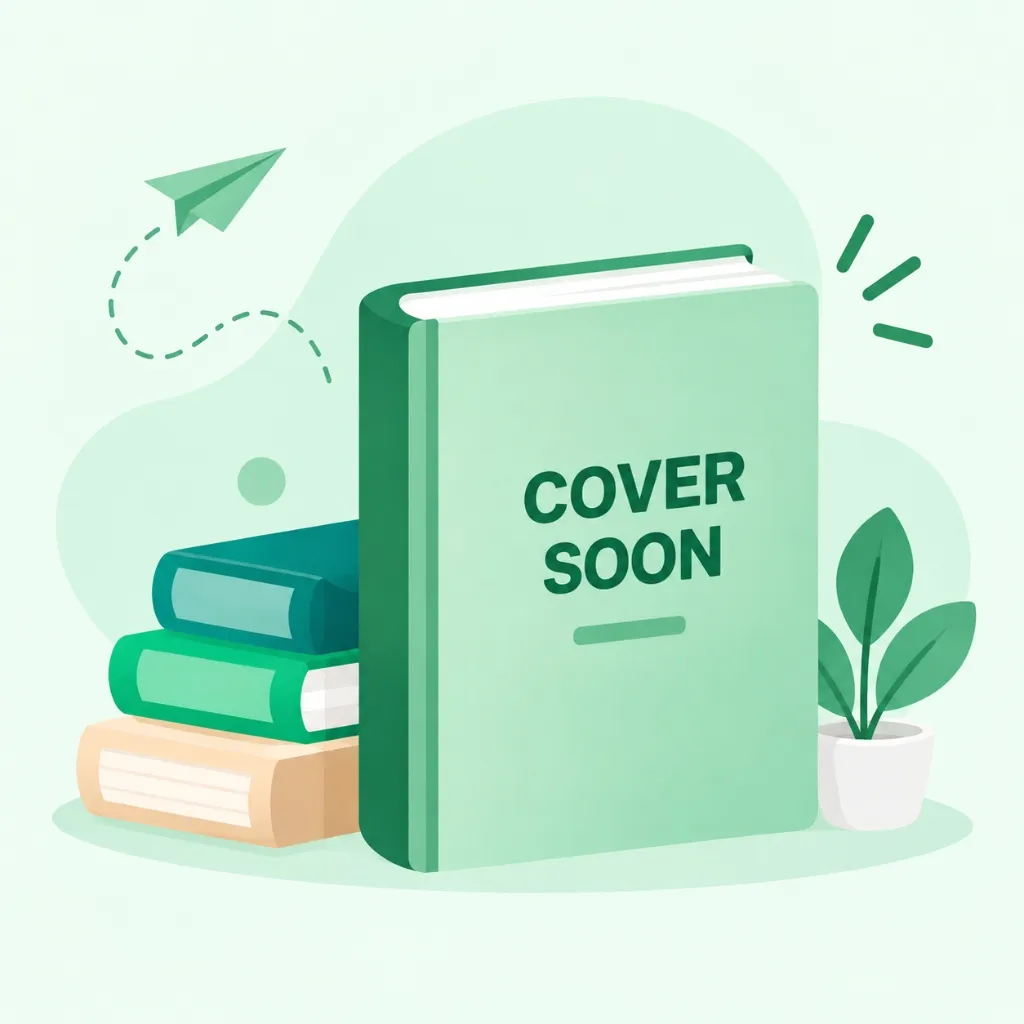
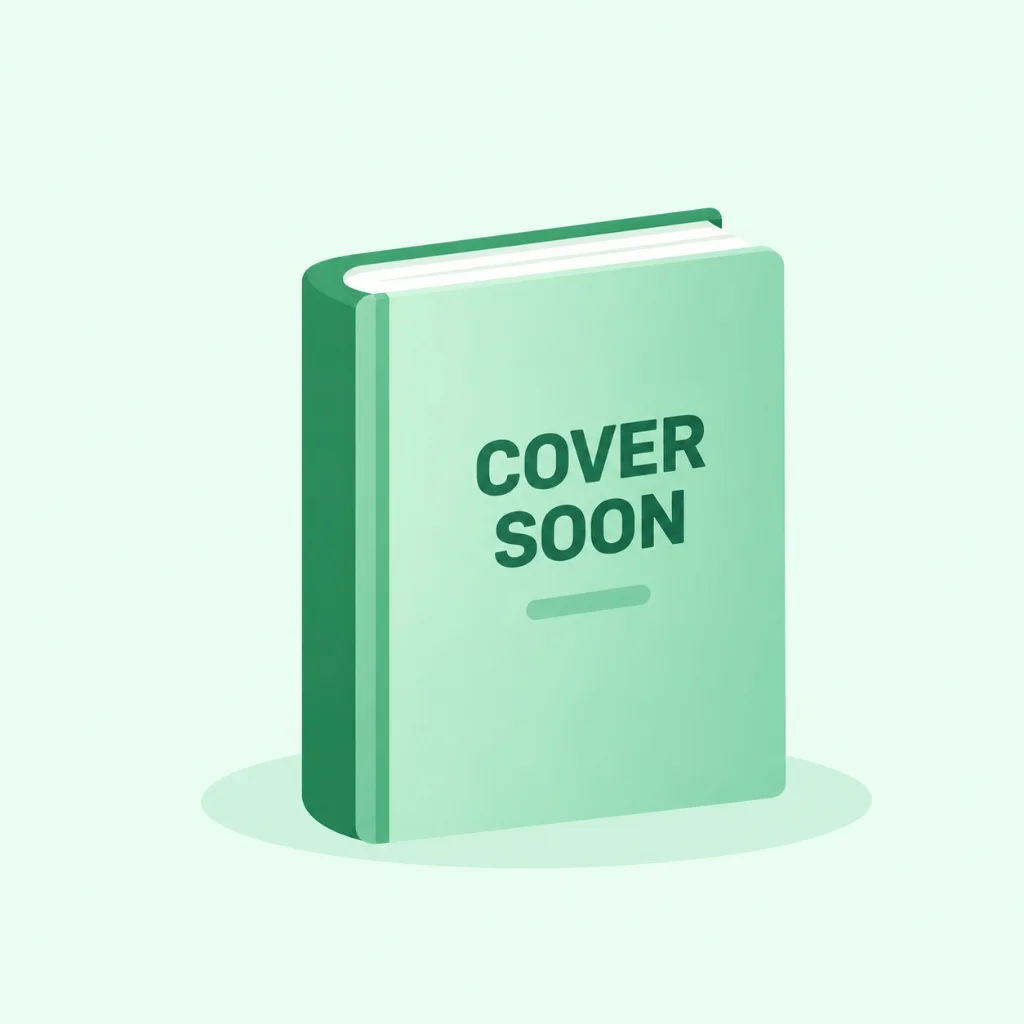
memperbaiki desain

diff --git a/syntax.html b/syntax.html
@@ -688,13 +688,13 @@
             <form id="modal-pencarian-spesifik-form" action="{{ route('search') }}" method="GET" class="p-5 md:p-8 space-y-4 md:space-y-6 overflow-y-auto flex-grow">
                 <!-- Section 1: Detail Bibliografi -->
                 <div class="space-y-4">
-                    <h4 class="text-xs font-bold uppercase tracking-wider text-slate-400 flex items-center gap-1.5">
+                    <h4 class="text-xs font-bold uppercase tracking-wider text-black flex items-center gap-1.5">
                         <i class="ph ph-info text-sm text-[#106c38]"></i> {{ __('Detail Bibliografi') }}
                     </h4>
                     
                     <!-- Judul -->
                     <div class="flex flex-col gap-1.5">
-                        <label class="text-xs font-semibold text-slate-500 pl-1">{{ __('Judul') }}</label>
+                        <label class="text-xs font-bold text-black pl-1">{{ __('Judul') }}</label>
                         <div class="relative flex items-center">
                             <div class="absolute left-4 text-slate-400">
                                 <i class="ph ph-book-open text-xl"></i>
@@ -705,7 +705,7 @@
                     
                     <!-- Pengarang -->
                     <div class="flex flex-col gap-1.5">
-                        <label class="text-xs font-semibold text-slate-500 pl-1">{{ __('Pengarang') }}</label>
+                        <label class="text-xs font-bold text-black pl-1">{{ __('Pengarang') }}</label>
                         <div class="relative flex items-center">
                             <div class="absolute left-4 text-slate-400">
                                 <i class="ph ph-user text-xl"></i>
@@ -717,7 +717,7 @@
                     <!-- Penerbit & Subyek -->
                     <div class="grid grid-cols-1 md:grid-cols-2 gap-4">
                         <div class="flex flex-col gap-1.5">
-                            <label class="text-xs font-semibold text-slate-500 pl-1">{{ __('Penerbit') }}</label>
+                            <label class="text-xs font-bold text-black pl-1">{{ __('Penerbit') }}</label>
                             <div class="relative flex items-center">
                                 <div class="absolute left-4 text-slate-400">
                                     <i class="ph ph-buildings text-xl"></i>
@@ -726,7 +726,7 @@
                             </div>
                         </div>
                         <div class="flex flex-col gap-1.5">
-                            <label class="text-xs font-semibold text-slate-500 pl-1">{{ __('Subyek') }}</label>
+                            <label class="text-xs font-bold text-black pl-1">{{ __('Subjek') }}</label>
                             <div class="relative flex items-center">
                                 <div class="absolute left-4 text-slate-400">
                                     <i class="ph ph-tag text-xl"></i>
@@ -739,7 +739,7 @@
                     <!-- Tahun Terbit & ISBN -->
                     <div class="grid grid-cols-1 md:grid-cols-2 gap-4">
                         <div class="flex flex-col gap-1.5">
-                            <label class="text-xs font-semibold text-slate-500 pl-1">{{ __('Tahun Terbit') }}</label>
+                            <label class="text-xs font-bold text-black pl-1">{{ __('Tahun Terbit') }}</label>
                             <div class="relative flex items-center">
                                 <div class="absolute left-4 text-slate-400">
                                     <i class="ph ph-calendar text-xl"></i>
@@ -748,7 +748,7 @@
                             </div>
                         </div>
                         <div class="flex flex-col gap-1.5">
-                            <label class="text-xs font-semibold text-slate-500 pl-1">{{ __('ISBN') }}</label>
+                            <label class="text-xs font-bold text-black pl-1">{{ __('ISBN') }}</label>
                             <div class="relative flex items-center">
                                 <div class="absolute left-4 text-slate-400">
                                     <i class="ph ph-barcode text-xl"></i>
@@ -761,7 +761,7 @@
                     <!-- No. Klasifikasi & Barcode -->
                     <div class="grid grid-cols-1 md:grid-cols-2 gap-4">
                         <div class="flex flex-col gap-1.5">
-                            <label class="text-xs font-semibold text-slate-500 pl-1">{{ __('No. Klasifikasi') }}</label>
+                            <label class="text-xs font-bold text-black pl-1">{{ __('No. Klasifikasi') }}</label>
                             <div class="relative flex items-center">
                                 <div class="absolute left-4 text-slate-400">
                                     <i class="ph ph-hash text-xl"></i>
@@ -770,7 +770,7 @@
                             </div>
                         </div>
                         <div class="flex flex-col gap-1.5">
-                            <label class="text-xs font-semibold text-slate-500 pl-1">{{ __('Barcode') }}</label>
+                            <label class="text-xs font-bold text-black pl-1">{{ __('Barcode') }}</label>
                             <div class="relative flex items-center">
                                 <div class="absolute left-4 text-slate-400">
                                     <i class="ph ph-qr-code text-xl"></i>
@@ -783,14 +783,14 @@
 
                 <!-- Section 2: Filter Pencarian -->
                 <div class="space-y-4 pt-2 border-t border-slate-100">
-                    <h4 class="text-xs font-bold uppercase tracking-wider text-slate-400 flex items-center gap-1.5">
+                    <h4 class="text-xs font-bold uppercase tracking-wider text-black flex items-center gap-1.5">
                         <i class="ph ph-sliders-horizontal text-sm text-[#106c38]"></i> {{ __('Lokasi & Jenis Koleksi') }}
                     </h4>
                     
                     <div class="grid grid-cols-1 md:grid-cols-2 gap-4">
                         <!-- Semua Lokasi -->
                         <div class="flex flex-col gap-1.5">
-                            <label class="text-xs font-semibold text-slate-500 pl-1">{{ __('Lokasi') }}</label>
+                            <label class="text-xs font-bold text-black pl-1">{{ __('Lokasi') }}</label>
                             <div class="relative w-full" id="spec-dropdown-lokasi-container">
                                 <div class="absolute left-4 text-slate-400 z-10 pointer-events-none top-1/2 -translate-y-1/2 flex items-center">
                                     <i class="ph ph-map-pin text-xl"></i>
@@ -818,7 +818,7 @@
                         
                         <!-- Semua Jenis -->
                         <div class="flex flex-col gap-1.5">
-                            <label class="text-xs font-semibold text-slate-500 pl-1">{{ __('Jenis Koleksi') }}</label>
+                            <label class="text-xs font-bold text-black pl-1">{{ __('Jenis Koleksi') }}</label>
                             <div class="relative w-full" id="spec-dropdown-jenis-container">
                                 <div class="absolute left-4 text-slate-400 z-10 pointer-events-none top-1/2 -translate-y-1/2 flex items-center">
                                     <i class="ph ph-file-text text-xl"></i>

diff --git a/resources/views/welcome.blade.php b/resources/views/welcome.blade.php
@@ -785,7 +785,7 @@
                         <i class="ph ph-graduation-cap"></i>
                     </div>
                     <div class="min-w-0 flex-1">
-                        <h3 class="text-sm md:text-lg font-bold text-black tracking-wide leading-tight break-words pr-2">{{ __('Pencarian Spesifik') }}</h3>
+                        <h3 class="text-sm md:text-lg font-bold text-white tracking-wide leading-tight break-words pr-2">{{ __('Pencarian Spesifik') }}</h3>
                         <p class="text-[10px] md:text-xs text-green-100/90 font-medium font-sans leading-tight mt-0.5 break-words pr-2">{{ __('Temukan buku, skripsi, dan jurnal untuk tugas kuliahmu dengan cepat!') }}</p>
                     </div>
                 </div>
@@ -798,13 +798,13 @@
             <form id="modal-pencarian-spesifik-form" action="{{ route('search') }}" method="GET" class="p-5 md:p-8 space-y-4 md:space-y-6 overflow-y-auto flex-grow">
                 <!-- Section 1: Detail Bibliografi -->
                 <div class="space-y-4">
-                    <h4 class="text-xs font-bold uppercase tracking-wider text-slate-400 flex items-center gap-1.5">
+                    <h4 class="text-xs font-bold uppercase tracking-wider text-black flex items-center gap-1.5">
                         <i class="ph ph-info text-sm text-[#106c38]"></i> {{ __('Detail Bibliografi') }}
                     </h4>
                     
                     <!-- Judul -->
                     <div class="flex flex-col gap-1.5">
-                        <label class="text-xs font-semibold text-slate-500 pl-1">{{ __('Judul') }}</label>
+                        <label class="text-xs font-bold text-black pl-1">{{ __('Judul') }}</label>
                         <div class="relative flex items-center">
                             <div class="absolute left-4 text-slate-400">
                                 <i class="ph ph-book-open text-xl"></i>
@@ -815,7 +815,7 @@
                     
                     <!-- Pengarang -->
                     <div class="flex flex-col gap-1.5">
-                        <label class="text-xs font-semibold text-slate-500 pl-1">{{ __('Pengarang') }}</label>
+                        <label class="text-xs font-bold text-black pl-1">{{ __('Pengarang') }}</label>
                         <div class="relative flex items-center">
                             <div class="absolute left-4 text-slate-400">
                                 <i class="ph ph-user text-xl"></i>
@@ -827,7 +827,7 @@
                     <!-- Penerbit & Subyek -->
                     <div class="grid grid-cols-1 md:grid-cols-2 gap-4">
                         <div class="flex flex-col gap-1.5">
-                            <label class="text-xs font-semibold text-slate-500 pl-1">{{ __('Penerbit') }}</label>
+                            <label class="text-xs font-bold text-black pl-1">{{ __('Penerbit') }}</label>
                             <div class="relative flex items-center">
                                 <div class="absolute left-4 text-slate-400">
                                     <i class="ph ph-buildings text-xl"></i>
@@ -836,7 +836,7 @@
                             </div>
                         </div>
                         <div class="flex flex-col gap-1.5">
-                            <label class="text-xs font-semibold text-slate-500 pl-1">{{ __('Subyek') }}</label>
+                            <label class="text-xs font-bold text-black pl-1">{{ __('Subjek') }}</label>
                             <div class="relative flex items-center">
                                 <div class="absolute left-4 text-slate-400">
                                     <i class="ph ph-tag text-xl"></i>
@@ -849,7 +849,7 @@
                     <!-- Tahun Terbit & ISBN -->
                     <div class="grid grid-cols-1 md:grid-cols-2 gap-4">
                         <div class="flex flex-col gap-1.5">
-                            <label class="text-xs font-semibold text-slate-500 pl-1">{{ __('Tahun Terbit') }}</label>
+                            <label class="text-xs font-bold text-black pl-1">{{ __('Tahun Terbit') }}</label>
                             <div class="relative flex items-center">
                                 <div class="absolute left-4 text-slate-400">
                                     <i class="ph ph-calendar text-xl"></i>
@@ -858,7 +858,7 @@
                             </div>
                         </div>
                         <div class="flex flex-col gap-1.5">
-                            <label class="text-xs font-semibold text-slate-500 pl-1">{{ __('ISBN') }}</label>
+                            <label class="text-xs font-bold text-black pl-1">{{ __('ISBN') }}</label>
                             <div class="relative flex items-center">
                                 <div class="absolute left-4 text-slate-400">
                                     <i class="ph ph-barcode text-xl"></i>
@@ -871,7 +871,7 @@
                     <!-- No. Klasifikasi & Barcode -->
                     <div class="grid grid-cols-1 md:grid-cols-2 gap-4">
                         <div class="flex flex-col gap-1.5">
-                            <label class="text-xs font-semibold text-slate-500 pl-1">{{ __('No. Klasifikasi') }}</label>
+                            <label class="text-xs font-bold text-black pl-1">{{ __('No. Klasifikasi') }}</label>
                             <div class="relative flex items-center">
                                 <div class="absolute left-4 text-slate-400">
                                     <i class="ph ph-hash text-xl"></i>
@@ -880,7 +880,7 @@
                             </div>
                         </div>
                         <div class="flex flex-col gap-1.5">
-                            <label class="text-xs font-semibold text-slate-500 pl-1">{{ __('Barcode') }}</label>
+                            <label class="text-xs font-bold text-black pl-1">{{ __('Barcode') }}</label>
                             <div class="relative flex items-center">
                                 <div class="absolute left-4 text-slate-400">
                                     <i class="ph ph-qr-code text-xl"></i>
@@ -893,14 +893,14 @@
 
                 <!-- Section 2: Filter Pencarian -->
                 <div class="space-y-4 pt-2 border-t border-slate-100">
-                    <h4 class="text-xs font-bold uppercase tracking-wider text-slate-400 flex items-center gap-1.5">
+                    <h4 class="text-xs font-bold uppercase tracking-wider text-black flex items-center gap-1.5">
                         <i class="ph ph-sliders-horizontal text-sm text-[#106c38]"></i> {{ __('Lokasi & Jenis Koleksi') }}
                     </h4>
                     
                     <div class="grid grid-cols-1 md:grid-cols-2 gap-4">
                         <!-- Semua Lokasi -->
                         <div class="flex flex-col gap-1.5">
-                            <label class="text-xs font-semibold text-slate-500 pl-1">{{ __('Lokasi') }}</label>
+                            <label class="text-xs font-bold text-black pl-1">{{ __('Lokasi') }}</label>
                             <div class="relative w-full" id="spec-dropdown-lokasi-container">
                                 <div class="absolute left-4 text-slate-400 z-10 pointer-events-none top-1/2 -translate-y-1/2 flex items-center">
                                     <i class="ph ph-map-pin text-xl"></i>
@@ -928,7 +928,7 @@
                         
                         <!-- Semua Jenis -->
                         <div class="flex flex-col gap-1.5">
-                            <label class="text-xs font-semibold text-slate-500 pl-1">{{ __('Jenis Koleksi') }}</label>
+                            <label class="text-xs font-bold text-black pl-1">{{ __('Jenis Koleksi') }}</label>
                             <div class="relative w-full" id="spec-dropdown-jenis-container">
                                 <div class="absolute left-4 text-slate-400 z-10 pointer-events-none top-1/2 -translate-y-1/2 flex items-center">
                                     <i class="ph ph-file-text text-xl"></i>

diff --git a/resources/views/partials/no-cover.blade.php b/resources/views/partials/no-cover.blade.php
@@ -1,3 +1,3 @@
 <div class="w-full h-full relative overflow-hidden group bg-[#e6f7f0]">
-    <img src="{{ asset('no-cover-illustration.webp') }}" alt="No Cover" class="w-full h-full object-cover object-center transition-transform duration-300 group-hover:scale-105">
+    <img src="{{ asset('no-cover-illustration.webp') }}?v={{ file_exists(public_path('no-cover-illustration.webp')) ? filemtime(public_path('no-cover-illustration.webp')) : time() }}" alt="No Cover" class="w-full h-full object-cover object-center transition-transform duration-300 group-hover:scale-105">
 </div>
